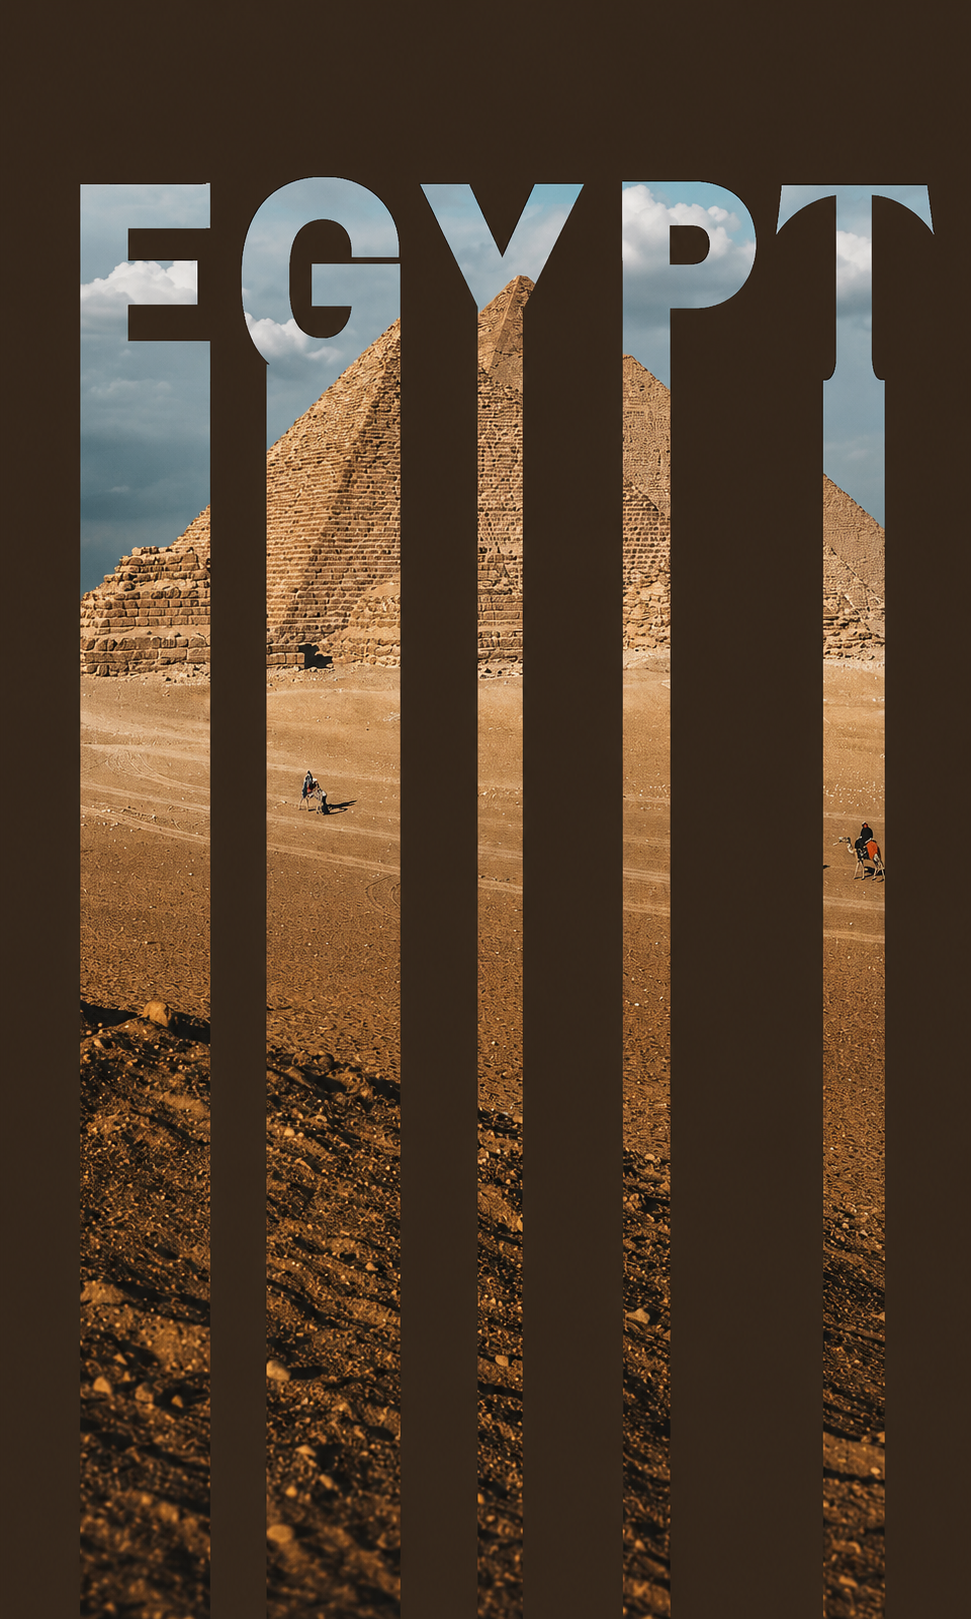
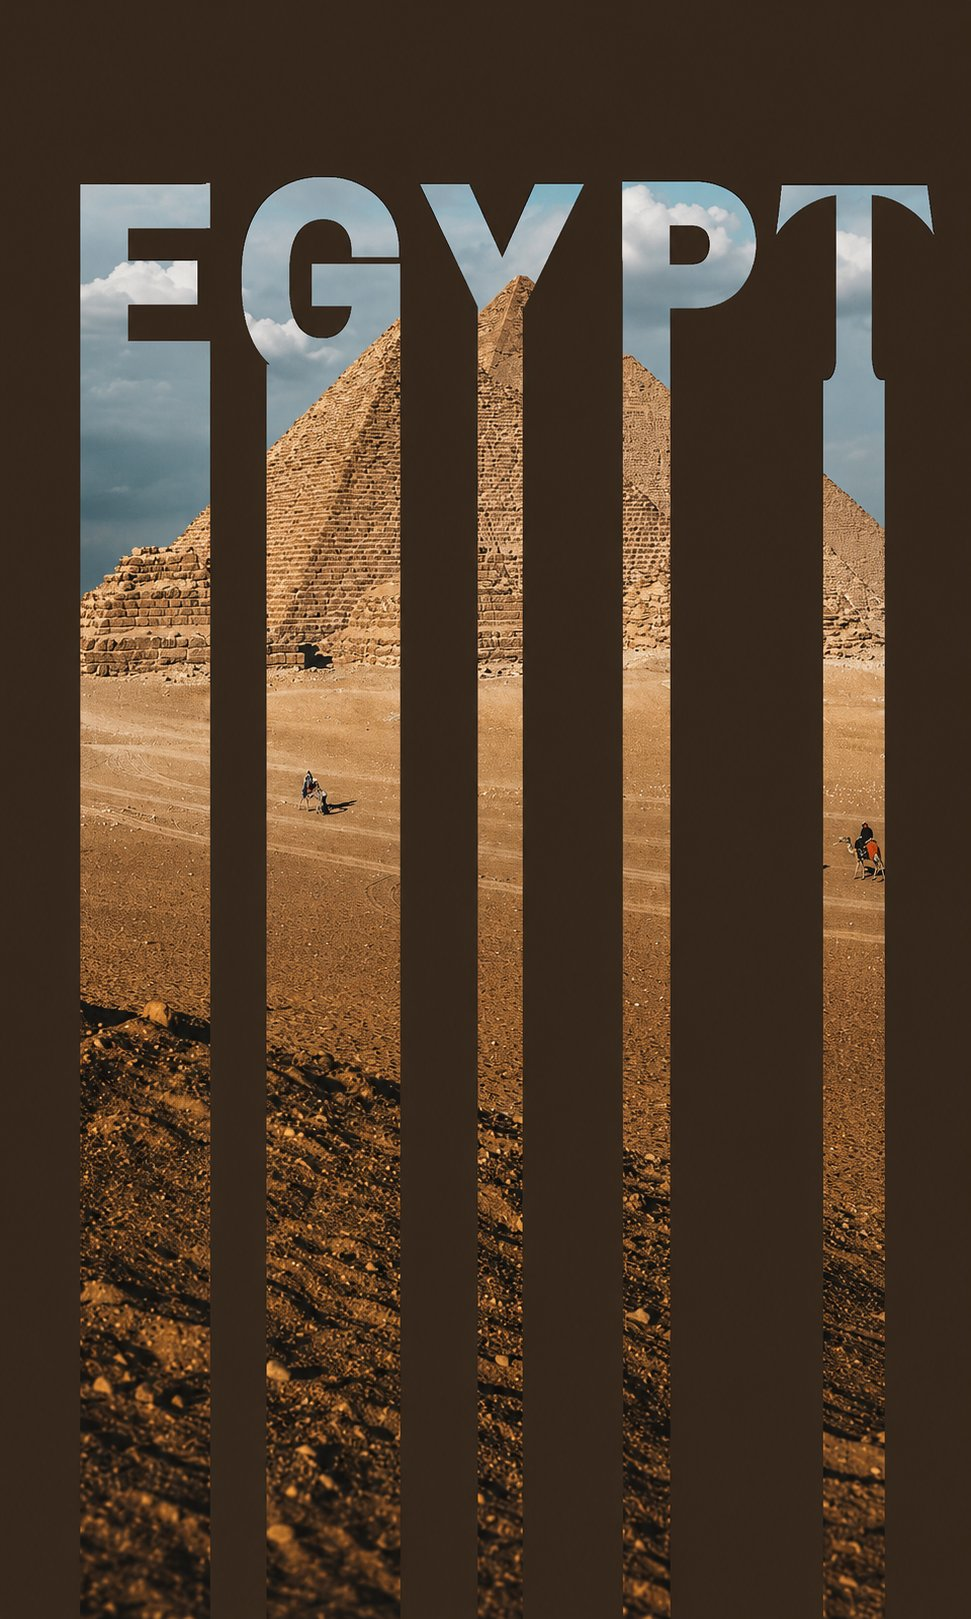
Add full-bleed image transition above "Beyond Healthcare"
Inserted a new full-width <section class="egypt-bridge"> between
"Forty Years of Medicine" and "Beyond Healthcare", displaying
images/Egypt-Dr.akoury-page.jpg (an "EGYPT" cut-out graphic revealing a
pyramids/desert photo) edge-to-edge via the standard full-bleed
technique (width:100vw; margin-left:calc(50% - 50vw)), with width:100%;
height:auto; object-fit:contain so the entire image always shows at its
native aspect ratio -- no cropping, no object-fit:cover, no fixed
height.

The source graphic is a tall portrait piece (971x1619, ratio ~0.6), not
a wide banner photo. Displaying it uncropped at full viewport width
means this section renders quite tall on wide desktop viewports
(~2400px at 1440px wide) -- confirmed with the client as the intended
tradeoff over cropping it to a conventional banner shape.

Moved the "Beyond Healthcare" eyebrow off the ivory section below and
onto the lower-left of this new image, over a bottom-anchored dark navy
gradient for readability, aligned to the same --maxw content column as
the heading beneath it. Removed the eyebrow from its old location
entirely (not duplicated) and reduced that section's top padding
(86px -> 48px) since it no longer needs to clear the eyebrow's own
space.

Added a restrained one-time reveal (opacity .92->1, scale 1.01->1,
850ms) by giving the image the site's existing .reveal class --
assets/app.js already observes every .reveal element and adds .in once,
[…]

diff --git a/Dr.Akoury-Egypt.html b/Dr.Akoury-Egypt.html
@@ -459,6 +459,45 @@
   #main .tl-marker{transition:background .2s ease,color .2s ease}
 }
 
+/* Full-bleed image bridge between "Forty Years of Medicine" and "Beyond
+   Healthcare". The source graphic (Egypt-Dr.akoury-page.jpg) is a tall
+   portrait piece, 971x1619 (ratio ~0.6) -- an "EGYPT" cut-out revealing
+   a pyramids/desert photo -- not a wide banner photo. Per explicit
+   instruction the image must never crop and must show at its natural
+   ratio, so at full 100vw width this section renders quite tall on
+   wide viewports; that tradeoff was confirmed rather than cropping it
+   to a conventional banner shape.
+   width:100vw + margin-left:calc(50% - 50vw) breaks the image out of
+   every ancestor's centered max-width (the site has no outer #page
+   wrapper constraining width, but .wrap/.narrow elsewhere do, so this
+   section deliberately sits at the top level between two <section>s,
+   not inside a .wrap, and uses the safe full-bleed technique rather
+   than assuming a particular ancestor width).
+   The "Beyond Healthcare" eyebrow moved here from the .sec-head2 below
+   (removed there, not duplicated) -- .egypt-bridge__content reuses the
+   same --maxw/30px column as .wrap so the eyebrow lines up with the
+   heading that now begins directly below it. */
+#main .egypt-bridge{position:relative;width:100vw;margin-left:calc(50% - 50vw);overflow:hidden;line-height:0}
+#main .egypt-bridge__image{display:block;width:100%;height:auto;max-width:none;object-fit:contain;object-position:center;opacity:.92;transform:scale(1.01);transition:opacity .85s var(--ease,ease),transform .85s var(--ease,ease)}
+#main .egypt-bridge__image.in{opacity:1;transform:scale(1)}
+@media(prefers-reduced-motion:reduce){#main .egypt-bridge__image{opacity:1;transform:none;transition:none}}
+#main .egypt-bridge__overlay{
+  position:absolute;inset:0;pointer-events:none;
+  background:linear-gradient(to bottom, rgba(7,23,46,0) 50%, rgba(7,23,46,.28) 75%, rgba(7,23,46,.72) 100%);
+}
+#main .egypt-bridge__content{position:absolute;left:0;right:0;bottom:0;z-index:2;max-width:var(--maxw);margin:0 auto;padding:0 30px 42px}
+#main .egypt-bridge__eyebrow{margin-bottom:0;text-shadow:0 2px 12px rgba(0,0,0,.55)}
+@media(max-width:640px){
+  #main .egypt-bridge__content{padding:0 20px 26px}
+  #main .egypt-bridge__eyebrow{font-size:10.5px;letter-spacing:.22em}
+}
+/* Eyebrow removed from this heading (moved onto the image above), so
+   trim the section's top padding accordingly -- otherwise the heading
+   would sit in the same 86px gap that used to also hold the eyebrow,
+   leaving visibly more empty ivory space above it than any other
+   section on the page. */
+#main section.block.alt[aria-labelledby="beyond-h"]{padding-top:48px}
+
 /* sector mosaic (beyond healthcare) */
 #main .mosaic{display:grid;grid-template-columns:repeat(4,1fr);gap:16px}
 @media(max-width:980px){#main .mosaic{grid-template-columns:repeat(2,1fr)}}
@@ -963,9 +1002,17 @@ html[dir="rtl"] #main .form2{text-align:right}
   </div>
 </section>
 
+<section class="egypt-bridge" aria-label="Egypt vision">
+  <img class="egypt-bridge__image reveal" src="images/Egypt-Dr.akoury-page.jpg" alt="Dr. Dalal Akoury&rsquo;s vision connecting healthcare leadership with Egypt&rsquo;s future" loading="lazy" decoding="async" width="971" height="1619">
+  <div class="egypt-bridge__overlay" aria-hidden="true"></div>
+  <div class="egypt-bridge__content">
+    <span class="eyebrow2 egypt-bridge__eyebrow" data-i18n="beyond.eyebrow">Beyond Healthcare</span>
+  </div>
+</section>
+
 <section class="block alt" aria-labelledby="beyond-h">
   <div class="wrap">
-    <div class="sec-head2" id="beyond"><span class="eyebrow2" data-i18n="beyond.eyebrow">Beyond Healthcare</span><h2 id="beyond-h" data-i18n="beyond.h2">Healthcare Is the Foundation &mdash; But the Opportunity Is Much Larger</h2></div>
+    <div class="sec-head2" id="beyond"><h2 id="beyond-h" data-i18n="beyond.h2">Healthcare Is the Foundation &mdash; But the Opportunity Is Much Larger</h2></div>
     <div class="lead2" style="margin-bottom:34px"><p data-i18n="beyond.lead">Her Egypt vision begins with medicine, but it does not end there. It connects care with the systems, industries and relationships that let progress endure &mdash; each area reinforcing the others. These are illustrative of these fields, not depictions of finalized projects.</p></div>
     <div class="mosaic">
       <div class="sector"><div class="ph simg"><img src="images/egypt-healthcare-medical-education.webp" alt="Illustrative image" loading="lazy" decoding="async" data-fallback onerror="this.style.visibility='hidden'"></div><div class="sbody"><h3 data-i18n="beyond.1.h">Healthcare &amp; Medical Education</h3><p data-i18n="beyond.1.p">Centers of excellence, prevention, integrative oncology, longevity, physician training and university collaboration.</p><span class="ill">Illustrative &mdash; an area of vision.</span></div></div>
